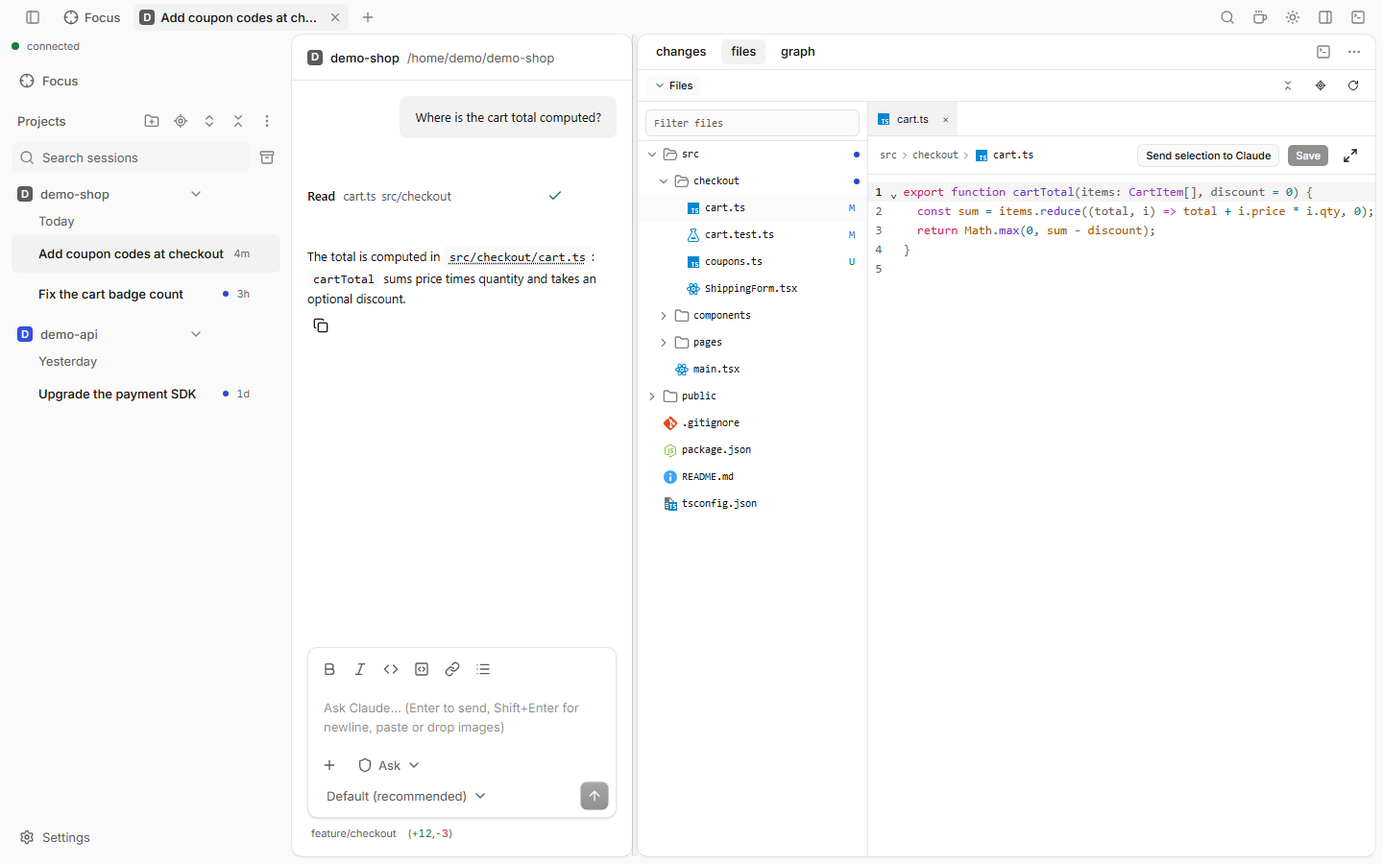
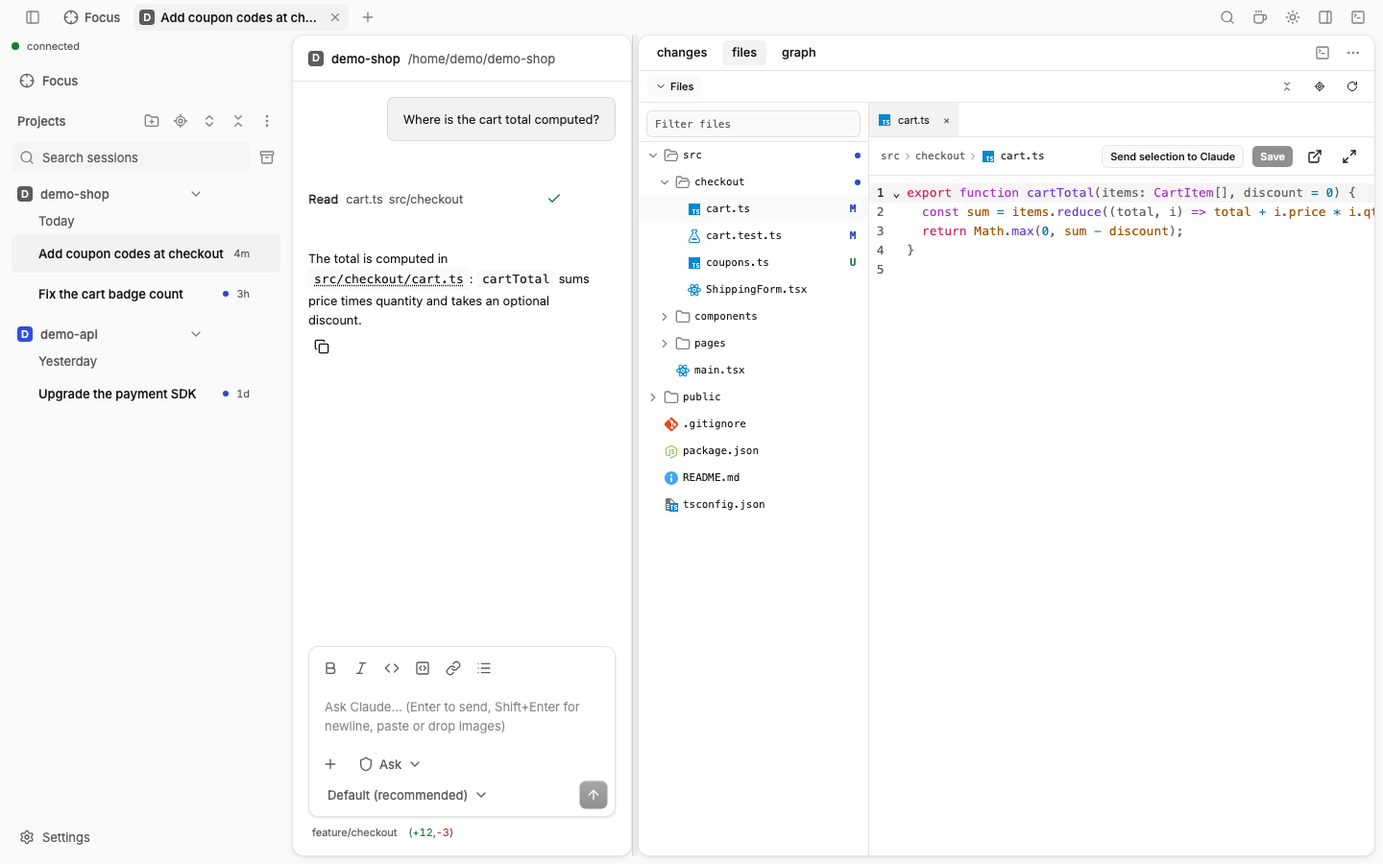
release: 1.0.0
Bump claude-code-ui to 1.0.0, changelog entry, docs check (new Aside and
Background shells pages, panes, nested repos, Focus, worktrees, retaken
terminal/files/focus shots), stale listWorktrees UNC test expects detached.

diff --git a/docs/site/.vitepress/config.ts b/docs/site/.vitepress/config.ts
@@ -107,6 +107,8 @@ export default defineConfig({
           { text: "Permissions & modes", link: "/features/permissions" },
           { text: "Reading a session", link: "/features/timeline" },
           { text: "Usage & context", link: "/features/usage" },
+          { text: "Ask an aside (/btw)", link: "/features/aside" },
+          { text: "Background shells", link: "/features/background-shells" },
         ],
       },
       {

diff --git a/packages/daemon/test/git.test.ts b/packages/daemon/test/git.test.ts
@@ -1801,7 +1801,7 @@ describe("WSL projects opened by their UNC path", () => {
     const list = await listWorktrees("\\\\wsl.localhost\\Ubuntu\\home\\me\\repo");
     expect(list).toEqual([
       { path: "\\\\wsl.localhost\\Ubuntu\\home\\me\\repo", branch: "main", main: true },
-      { path: "C:\\wt", branch: "abcdef1", main: false },
+      { path: "C:\\wt", branch: "abcdef1", main: false, detached: true },
     ]);
   });
 

diff --git a/CHANGELOG.md b/CHANGELOG.md
@@ -2,6 +2,48 @@
 
 All notable changes to `claude-code-ui` (npm). Versions follow [Semantic Versioning](https://semver.org/).
 
+## 1.0.0 - 2026-10-30
+
+### Added
+
+- Panes: Plan, Files, Git graph, the terminal, a single file, an artifact and a session can each show in the side panel, the bottom panel or as a tab in the main area. Drag a pane tab to move it between them. Split view shows a session beside one of its panes ([#395](https://github.com/cuonghuunguyen/claude-code-ui/issues/395), [#396](https://github.com/cuonghuunguyen/claude-code-ui/issues/396), [#397](https://github.com/cuonghuunguyen/claude-code-ui/issues/397), [#398](https://github.com/cuonghuunguyen/claude-code-ui/issues/398), [#399](https://github.com/cuonghuunguyen/claude-code-ui/issues/399), [#400](https://github.com/cuonghuunguyen/claude-code-ui/issues/400), [#401](https://github.com/cuonghuunguyen/claude-code-ui/issues/401), [#402](https://github.com/cuonghuunguyen/claude-code-ui/issues/402)).
+- Terminal in the main area: one tab per project folder; moving it keeps the running shell ([#397](https://github.com/cuonghuunguyen/claude-code-ui/issues/397)).
+- A session shown in the side or bottom panel has the full session features, its owner's pane tab and image attachments ([#401](https://github.com/cuonghuunguyen/claude-code-ui/issues/401), [#503](https://github.com/cuonghuunguyen/claude-code-ui/issues/503)).
+- Aside: `/btw` asks a side question in a floating popup, also while the turn runs. Keep it to turn it into a session ([#465](https://github.com/cuonghuunguyen/claude-code-ui/issues/465), [#466](https://github.com/cuonghuunguyen/claude-code-ui/issues/466), [#467](https://github.com/cuonghuunguyen/claude-code-ui/issues/467)).
+- Artifact browser: lists the artifacts a session published ([#176](https://github.com/cuonghuunguyen/claude-code-ui/issues/176)).
+- Settings › Appearance › Theme: Catppuccin, Tokyo Night, Solarized, Nord, Dracula and One Dark next to the default theme. Recolors the app, editor, diffs, terminal and git graph ([#468](https://github.com/cuonghuunguyen/claude-code-ui/issues/468)).
+- Nested repositories and submodules: found like VS Code (Settings › Git, same names as `git.*`). A repository selector picks which repository Changes and the Git graph show (remembered per project), with fetch, push and pull per repository. The file tree marks each file by its own repository; repository folders get Show changes and Show graph. Filter files and @-mentions find files inside nested repositories ([#388](https://github.com/cuonghuunguyen/claude-code-ui/issues/388), [#389](https://github.com/cuonghuunguyen/claude-code-ui/issues/389), [#390](https://github.com/cuonghuunguyen/claude-code-ui/issues/390), [#391](https://github.com/cuonghuunguyen/claude-code-ui/issues/391), [#392](https://github.com/cuonghuunguyen/claude-code-ui/issues/392), [#393](https://github.com/cuonghuunguyen/claude-code-ui/issues/393)).
+- Background shells: a running Bash command, also a `!` command, moves to the background with the card button or Ctrl+Shift+B (⌘⇧B on macOS). A Background shells list shows the session's shells with live output and Kill ([#440](https://github.com/cuonghuunguyen/claude-code-ui/issues/440), [#442](https://github.com/cuonghuunguyen/claude-code-ui/issues/442), [#485](https://github.com/cuonghuunguyen/claude-code-ui/issues/485)).
+- A `!` command sent while a turn runs is queued like a prompt instead of rejected ([#443](https://github.com/cuonghuunguyen/claude-code-ui/issues/443)).
+- A large paste shows as a collapsed Pasted text block in the prompt box and the sent message ([#441](https://github.com/cuonghuunguyen/claude-code-ui/issues/441)).
+- New worktrees get the gitignored files listed in `.worktreeinclude` ([#439](https://github.com/cuonghuunguyen/claude-code-ui/issues/439)).
+- Sidebar: Copy path on project and worktree rows ([#456](https://github.com/cuonghuunguyen/claude-code-ui/issues/456)).
+- Focus page: usage-limit row when auto-continue is off, worker rows nested under their coordinator, an optional Next for you chip (Settings › Focus, off by default) ([#305](https://github.com/cuonghuunguyen/claude-code-ui/issues/305), [#306](https://github.com/cuonghuunguyen/claude-code-ui/issues/306), [#307](https://github.com/cuonghuunguyen/claude-code-ui/issues/307)).
+- Orchestration: start a worker by project or worktree name. Workers hand off to the next stage by agent type. An optional total worker limit counts the whole daemon; the worker cap counts one coordinator's tree ([#454](https://github.com/cuonghuunguyen/claude-code-ui/issues/454), [#457](https://github.com/cuonghuunguyen/claude-code-ui/issues/457), [#484](https://github.com/cuonghuunguyen/claude-code-ui/issues/484)).
+
+### Changed
+
+- Files tab restores open editor tabs and unsaved drafts after a reload ([#366](https://github.com/cuonghuunguyen/claude-code-ui/issues/366)).
+- Clean up scans worktrees fast, shows the fetch, counts squash-merged worktrees as Safe. Remove worktree opens at once with Checking… and removes in the background with a Removing… row. Worktree status is cached ([#461](https://github.com/cuonghuunguyen/claude-code-ui/issues/461), [#462](https://github.com/cuonghuunguyen/claude-code-ui/issues/462), [#463](https://github.com/cuonghuunguyen/claude-code-ui/issues/463)).
+- WSL and Docker sides use the Node.js already in the container or distro when its version qualifies, else the pinned one, and come back with the hub without manual steps ([#458](https://github.com/cuonghuunguyen/claude-code-ui/issues/458), [#464](https://github.com/cuonghuunguyen/claude-code-ui/issues/464)).
+- Docker side bundle: concurrent downloads of a cold cache share one download, fallback reasons read correctly, leftover temp tars are cleaned, the cache is pruned ([#448](https://github.com/cuonghuunguyen/claude-code-ui/issues/448), [#449](https://github.com/cuonghuunguyen/claude-code-ui/issues/449), [#450](https://github.com/cuonghuunguyen/claude-code-ui/issues/450)).
+- The Focus tab keeps the side and bottom panels, so the prompt no longer jumps ([#367](https://github.com/cuonghuunguyen/claude-code-ui/issues/367)).
+- Phone: the tab name follows the finger on a swipe and settles in one transition ([#507](https://github.com/cuonghuunguyen/claude-code-ui/issues/507)).
+
+### Fixed
+
+- Jira token: bound to the host it was saved for, cleared on a host change, never sent over http, kept out of the log ([#451](https://github.com/cuonghuunguyen/claude-code-ui/issues/451), [#487](https://github.com/cuonghuunguyen/claude-code-ui/issues/487)).
+- Create worktree: long ticket summaries and branch folders over 64 characters, `fix-123` read as a ticket key, a stale branch list replacing the fetched one, deletion of your own `worktree-*` branch ([#452](https://github.com/cuonghuunguyen/claude-code-ui/issues/452), [#453](https://github.com/cuonghuunguyen/claude-code-ui/issues/453), [#460](https://github.com/cuonghuunguyen/claude-code-ui/issues/460), [#486](https://github.com/cuonghuunguyen/claude-code-ui/issues/486)).
+- Background shell output shows after `/clear` ([#496](https://github.com/cuonghuunguyen/claude-code-ui/issues/496)); subagent Bash cards keep Run in background ([#492](https://github.com/cuonghuunguyen/claude-code-ui/issues/492)).
+- Asides of a daemon on another port are cleaned up ([#495](https://github.com/cuonghuunguyen/claude-code-ui/issues/495)).
+- Focus page: error rows survive a reload and unread finished rows a daemon restart; it opens under a maximized bottom panel; the detail pane no longer repeats the command above the Permission card; the Next for you chip fills a mounted prompt box ([#308](https://github.com/cuonghuunguyen/claude-code-ui/issues/308), [#455](https://github.com/cuonghuunguyen/claude-code-ui/issues/455), [#499](https://github.com/cuonghuunguyen/claude-code-ui/issues/499), [#505](https://github.com/cuonghuunguyen/claude-code-ui/issues/505)).
+- Terminal: the selected terminal is restored per folder after a reload; tabs polish on narrow screens ([#490](https://github.com/cuonghuunguyen/claude-code-ui/issues/490), [#491](https://github.com/cuonghuunguyen/claude-code-ui/issues/491)).
+- Split view: focus after a split, a 0-size terminal, a stale drag ([#501](https://github.com/cuonghuunguyen/claude-code-ui/issues/501)). Open in tab from the file dialog keeps the editor focus ([#504](https://github.com/cuonghuunguyen/claude-code-ui/issues/504)).
+- Nested repository search stays fast on WSL, keeps empty nested repository folders, shares the cap and the repository scan ([#502](https://github.com/cuonghuunguyen/claude-code-ui/issues/502)).
+- Settings: a second fast edit is kept; Enter in a field on a phone no longer leaves the group ([#498](https://github.com/cuonghuunguyen/claude-code-ui/issues/498), [#500](https://github.com/cuonghuunguyen/claude-code-ui/issues/500)).
+- Markdown file preview shows tables at full height ([#444](https://github.com/cuonghuunguyen/claude-code-ui/issues/444)).
+- Worker view "also remove worktree" re-checks the worktree before removal ([#493](https://github.com/cuonghuunguyen/claude-code-ui/issues/493)).
+
 ## 0.8.0 - 2026-10-25
 
 ### Added

diff --git a/docs/site/features/panes.md b/docs/site/features/panes.md
@@ -1,6 +1,6 @@
 # Panes & layout
 
-Changes, Files, Git graph and Terminal are **panes**. Each one is a tab of the side panel or of the bottom panel, and you choose where it lives.
+Changes, Files, Git graph, Terminal, Plan and Artifacts are **panes**. Each one is a tab of the side panel, of the bottom panel or (except Changes) of the main area, and you choose where it lives.
 
 ![The workspace with the terminal docked at the bottom](/screenshots/panes.png)
 
@@ -12,16 +12,40 @@ Changes, Files, Git graph and Terminal are **panes**. Each one is a tab of the s
 4. To dock the side panel on the other side, use **Move side panel to left** (or **right**) in its **⋯** menu.
 5. To undo all of it, pick **Reset layout** in a pane tab's menu, a panel's **⋯** menu or the [command palette](palette).
 
+## The main area
+
+Plan, Files, Git graph and Terminal can also be tabs next to your sessions. Right-click the pane tab and pick **Move to main area**, or drag the tab onto the tab strip or the session area. The pane then opens as a tab in the project's group of the tab strip ("Plan · *session*", "Terminal · *project*"), and keeps showing that project or session while you work in another one. **Move to side panel** or **Move to bottom panel** brings it back, and the tab closes (a toast offers **Undo**). The tab's own menu has the same items. Git graph always takes the whole area.
+
+Drag a pane tab onto the side panel or the bottom panel to move it there.
+
+## The panes
+
+| Pane | Shows |
+| --- | --- |
+| [Changes](changes), [Files](files), [Git graph](git-graph), [Terminal](terminal) | See their pages. |
+| **Plan** | The newest plan of the session, with the same text as the plan card. It is listed only while the session has a plan. While a plan waits for your answer it says so, with **Go to request**. **Open in tab** on a plan card or on the plan approval shows the pane wherever it lives. |
+| **Artifacts** | The artifacts the session published (Claude's Artifact tool). Pick one to preview it, or click **Open in tab**. Listed only while the session has published one. |
+
+## One file or one artifact as a tab
+
+- **Open in tab** on a file (a tree row, a Files editor tab, the file dialog, or <kbd>Alt</kbd>+<kbd>Enter</kbd> in **Open file**) moves that file into its own tab next to its session. It is the same editor. **Move to Files** puts it back. A file is open in one place only.
+- **Open in tab** on a published Artifact card shows the page in its own tab at full height. **Move to Artifacts** puts it back. The preview in the card stays.
+- Put either one beside the session with **Split right** or **Split down** (see [Split view](split-view)).
+
+## A session in the side or bottom panel
+
+Right-click a session tab and pick **Move to side panel** or **Move to bottom panel** (wide screens). That session, with its timeline, prompt box and requests, stays there while you work in other sessions, for example to watch a worker. It has the same features as a tab: file links, **Quote**, **Open in tab**, image attachments. **Move to main area** in the dock tab's menu brings it back. Opening it from the sidebar, [Focus](focus) or a notification selects its dock tab. It is a normal tab again on a window narrower than 1024px.
+
 ## The terminal
 
 The [terminal](terminal) is in the bottom panel by default, under the session and the side panel. The bottom panel resizes (drag the handle above it), maximizes (**Maximize panel** / **Restore panel**) and hides (**Hide bottom panel**). Press <kbd>Ctrl</kbd>+<kbd>`</kbd> or use the terminal button in the titlebar to show or hide it.
 
-To keep the terminal in the side panel, set **Terminal position** to **Side panel** in [Settings › Layout › Terminal](../reference/settings#terminal), or move its tab.
+To keep the terminal in the side panel or the main area, set **Terminal position** in [Settings › Layout › Terminal](../reference/settings#terminal), or move its tab.
 
 ## Good to know
 
-- A moved pane keeps its state: open files, running terminals, the loaded graph. Its tab keeps the keyboard focus.
-- A panel with no pane is hidden. Git graph only shows in a git folder.
+- A moved pane keeps its state: open files, running terminals, the loaded graph. Its tab keeps the keyboard focus. The terminal never takes the keyboard until you click into it.
+- A panel with no pane is hidden. Git graph, Plan and Artifacts only show when there is something to show. Git graph needs a git folder.
 - The layout is kept per browser. The side panel and the bottom panel reopen on the tab you selected last, also after a reload.
 - **Reset layout** restores the default layout and forgets the remembered tabs. It does not change sizes.
 - On a phone there is no docking: the pane switcher opens on the pane you used last.

diff --git a/docs/site/features/files.md b/docs/site/features/files.md
@@ -1,6 +1,6 @@
 # Files
 
-The **Files** pane in the side panel: a file tree and a simple editor for the session's folder.
+The **Files** pane: a file tree and a simple editor for the session's folder. It lives in the side panel by default; it can also be a tab in the main area (see [Panes & layout](panes)).
 
 ![The file tree with cart.ts open in the editor](/screenshots/files.png)
 
@@ -13,10 +13,13 @@ The **Files** pane in the side panel: a file tree and a simple editor for the se
 
 ## File view
 
-- The tree shows a file-type icon and a git status mark (modified, added, untracked…) for each file.
+- The tree shows a file-type icon and a git status mark (modified, added, untracked…) for each file. A file inside a nested repository or a submodule gets the mark of its own repository. A repository folder shows a repository icon and a submodule an archive icon; neither gets a single `U` from the parent. Right-click one for **Show changes** or **Show graph**: they switch the [repository selector](changes#repositories) of Changes and Git graph.
+- Open tabs and unsaved edits come back after a page reload.
 - A single click opens a **preview tab** (its title is in italics); the next single click replaces it. Double click the tab or the tree row, or edit the file, to keep it open.
 - A breadcrumb path and an unsaved marker (●) sit above the editor. Markdown files can show a rendered preview.
+- Markdown preview shows tables at full height; the preview scrolls.
 - Binary and very large files show a clear message instead of opening.
+- **Filter files** and `@` in the prompt box also find files inside nested repositories and submodules.
 - With no file open, the tree fills the tab. From 672px of panel width the tree sits beside the editor; below that it is a drawer (the **Files** button or <kbd>Ctrl</kbd>+<kbd>\\</kbd>).
 
 ## File dialog
@@ -35,6 +38,7 @@ Right-click (long press, or <kbd>Shift</kbd>+<kbd>F10</kbd>) a file or folder:
 | **Rename** (<kbd>F2</kbd>), **Duplicate** | Renames or copies the file. |
 | **Delete** (<kbd>Delete</kbd>) | Deletes it after you confirm. |
 | **Copy path**, **Copy relative path** | Copies the path. |
+| **Open in tab** | Moves the file into its own tab next to its session (also middle click on the row). See [Panes & layout](panes#one-file-or-one-artifact-as-a-tab). |
 | **Add to prompt** | Inserts the file into the prompt box as an @mention. |
 
 ## Keys

diff --git a/docs/site/features/prompt-box.md b/docs/site/features/prompt-box.md
@@ -21,7 +21,10 @@ In **Settings > General > Sending** you can swap the two: <kbd>Enter</kbd> queue
 1. Type `!` as the first character. The box turns into a shell prompt.
 2. Type a command, for example `! npm test`, and press <kbd>Enter</kbd>.
 3. It runs in the session's folder. The output shows in the timeline, and Claude sees it in the next turn.
-4. **Stop** kills a command that hangs. <kbd>Esc</kbd> (or <kbd>Backspace</kbd> in an empty box) leaves bash mode.
+4. **Stop** kills a command that hangs. To keep a long command running while you go on, click **Run in background** (<kbd>Ctrl</kbd>+<kbd>Shift</kbd>+<kbd>B</kbd>, see [Background shells](background-shells)).
+5. <kbd>Esc</kbd> (or <kbd>Backspace</kbd> in an empty box) leaves bash mode.
+
+While Claude works, a `!` command waits in the queue like a message and runs when the session is idle.
 
 `!` also works in a new session's box: it starts the session and runs the command.
 
@@ -31,12 +34,15 @@ In **Settings > General > Sending** you can swap the two: <kbd>Enter</kbd> queue
 - A `/command` works in the middle of a message too, like in Claude Code.
 - Some open a dialog instead of being sent: `/mcp`, `/skills` (or `/help`), `/plugins`, `/resume`. See [MCP, skills & plugins](config-dialogs).
 - `/clear` starts a fresh session in the same tab.
+- `/btw <question>` asks an [aside](aside) in a floating popup, also while Claude works.
+- `/tasks` (or `/bashes`) opens the [Background shells](background-shells) list.
 
 ## Files and images
 
 - Type `@` and part of a file name to mention a file.
 - Paste or drop images into the box, or click **+** (**Add images and files**). PNG, JPEG, GIF and WebP go to Claude as images.
 - Other files are uploaded and added to the prompt as a path.
+- A large text paste (more than 800 characters or more than 2 line breaks) shows as a block `[Pasted text #1 +120 lines]` in the box and in the sent message. Click the block to read the text. Delete it like one character (<kbd>Backspace</kbd>). Claude gets the whole text. Several pastes get numbers #1, #2…
 
 ## Pickers under the box
 

diff --git a/docs/site/features/aside.md b/docs/site/features/aside.md
@@ -1,0 +1,21 @@
+# Ask an aside
+
+Ask a side question about a session without touching it. An **aside** is a copy of the session that knows everything up to now. It answers in a floating popup while the session stays usable behind it.
+
+## How to use
+
+1. In a session, type `/btw` and your question in the prompt box, then press <kbd>Enter</kbd>. Or run **Ask aside** in the [command palette](palette). While a permission or question panel replaces the prompt box, **Ask aside** shows a one-line input.
+2. The popup opens at once and starts to answer. It has its own timeline, a prompt box for follow-ups, and its own permission and question panels.
+3. Drag the popup by its header, resize it by its corner, or click **Minimize aside** to fold it into a chip at the bottom right.
+4. **Close aside** deletes the aside.
+5. **Keep as session** turns it into a normal session: it gets a title in the sidebar and opens as a tab, and the popup closes.
+
+## Good to know
+
+- It works while Claude runs a turn. The turn goes on undisturbed. The aside sees the session up to the last complete reply, not what Claude is writing now. A session with no reply yet cannot be asked.
+- An aside is read-only: Edit, Write and NotebookEdit are off, and it starts no workers. Other tools run in the default [mode](permissions), so Bash and others ask. Changing its permission mode lifts the read-only limit.
+- Its requests show in its popup only, never in the session's panels. [Focus](focus) lists them as "Aside: *title*"; **Open** brings the popup forward.
+- Several popups can be open. A popup shows only while its session's tab shows. Open popups are not restored after a page reload.
+- On a phone the popup fills the screen.
+- `/btw` and `/clear` do not work inside an aside. Images in the question are not sent.
+- An aside that is not kept is not listed and is deleted when it is not needed any more, also after a browser close or a restart, so it does not show in `claude --resume`.

diff --git a/docs/site/features/split-view.md b/docs/site/features/split-view.md
@@ -1,6 +1,6 @@
 # Split view
 
-Show two sessions next to each other, or one above the other, each with its own timeline, prompt box and scroll position. It needs a window at least 1024px wide.
+Show two sessions next to each other, or one above the other, each with its own timeline, prompt box and scroll position. A session can also sit beside one of its [panes](panes): its plan, its project's terminal, a file or an artifact. It needs a window at least 1024px wide.
 
 ![Two sessions side by side](/screenshots/split-view.png)
 
@@ -12,7 +12,7 @@ Show two sessions next to each other, or one above the other, each with its own 
 4. Drag the bar between the splits to resize them, or focus it and press the arrow keys. Double click it to go back to 50/50.
 5. To end the split, run **Join splits** in the [command palette](palette). The active session stays.
 
-You can also drag a tab onto the session area and drop it at an edge to split there.
+You can also drag a tab onto the session area and drop it at an edge to split there. **Split right**, **Split down** and the drag work on Plan, Files, Terminal, file and artifact tabs too. A split always holds at least one session. Git graph always takes the whole area, and Changes stays in its panel.
 
 ## Good to know
 
@@ -21,4 +21,5 @@ You can also drag a tab onto the session area and drop it at an edge to split th
 - Both sessions on screen count as seen, so neither shows a notification card.
 - The tab of the other split has a split icon. Closing it ends the split.
 - When the window is too narrow for two splits, one shows at a time with a **Close split** button. The split comes back when there is room.
+- After a split, the typing focus is in the new split: type at once, also in a terminal.
 - The split is kept per browser and restored on reload while both tabs are open.

diff --git a/docs/site/features/terminal.md b/docs/site/features/terminal.md
@@ -1,6 +1,6 @@
 # Terminal
 
-A real terminal in the session's folder, docked at the bottom of the window by default. It runs on the daemon's computer.
+A real terminal in the session's folder, docked at the bottom of the window by default. It can also sit in the side panel or as a tab in the main area. It runs on the daemon's computer.
 
 ![Two terminals in the bottom panel, the second one showing test output](/screenshots/terminal.png)
 
@@ -22,7 +22,8 @@ For Git Bash on Windows, set `SHELL` to `C:\Program Files\Git\bin\bash.exe` befo
 
 ## Good to know
 
-- The terminal is a [pane](panes): it sits in the bottom panel, under the session and the side panel. The bottom panel resizes and maximizes. **Terminal position** in [Settings › Layout › Terminal](../reference/settings#terminal), or a move of its tab, puts it in the side panel.
+- The terminal is a [pane](panes): it sits in the bottom panel, under the session and the side panel. The bottom panel resizes and maximizes. **Terminal position** in [Settings › Layout › Terminal](../reference/settings#terminal), or a move of its tab, puts it in the side panel or the main area.
+- In the main area the terminals of a project are one tab ("Terminal · *project*") that stays while you work in another project. After a reload each folder shows the terminal you selected in it.
 
 - Terminals live in the daemon. They survive a page reload or a lost connection, and the last output is replayed.
 - A shell starts only when you open the terminal (Toggle terminal, New terminal, or a click on its tab), never on a reload, a session or project switch, or a reconnect. A terminal you left open shows again only while its folder has running shells, and then it does not take the focus.

diff --git a/docs/site/features/focus.md b/docs/site/features/focus.md
@@ -21,9 +21,14 @@ One page that shows, per session, what needs you, what is working and what finis
 - Each list shows 5 rows and **+N more**.
 - Error and finished rows go away when you open the session. Finished rows also go after 24 hours.
 - The number on the tab and the title counts only sessions that wait for you (escalated, permission, question).
-- The usage-limit row shows only while auto-continue is on.
+- The usage-limit row shows also while auto-continue is off. Then it has no **Cancel continue**.
+- A [worker](orchestration) row is nested under its coordinator.
+- Error rows and unread finished rows are still there after a page reload or a daemon restart.
+- The detail of a request shows the tool and its command once, in the request card.
 - Answered requests shrink to one line until you leave the page.
 - Each request gets a **tier**. **Low** is a plain read (or, in some repos, an edit) inside the session's folder. Everything else is **high**. A high one shows **High tier · always asks** and has no **Allow always** here. Only you can answer it (see [Orchestration](orchestration)).
 - **Escalated by coordinator** marks a worker's request that its coordinator handed to you.
 - You can also open it with the link `#focus`.
+- Focus opens also while the bottom panel is maximized. The side and bottom panels stay while Focus shows, so the prompt box does not jump when you switch between Focus and a session.
+- With **Next for you** on (see [Settings › Focus](../reference/settings#focus)), a finished row has a chip with the predicted next prompt. Click it to put the text in that session's prompt box.
 - While Focus is open, [in-app notifications](notifications) for requests are hidden: you already see them here.

diff --git a/docs/site/features/git-graph.md b/docs/site/features/git-graph.md
@@ -1,19 +1,22 @@
 # Git graph
 
-The **Graph** pane shows the project's commit history as a graph, like `git log --graph`. It is read-only.
+The **Graph** pane shows the project's commit history as a graph, like `git log --graph`. It is read-only, except **Fetch**. It lives in the side panel by default and can be a tab in the main area, where it takes the whole area (see [Panes & layout](panes)).
 
 ![The git graph with branches, tags and commits](/screenshots/git-graph.png)
 
 ## How to use
 
 1. Open the side panel and pick **graph** (or press <kbd>Ctrl</kbd>+<kbd>Shift</kbd>+<kbd>H</kbd>).
-2. Pick which branch to show: **HEAD** (the default) or **All branches**, or one branch.
-3. Search with **Text or hash**, or filter by **Author**.
-4. Click a commit to see its details and the diff of each file.
+2. In a folder with several repositories, pick the repository first (see [Changes](changes#repositories)). The choice is shared with Changes.
+3. Pick which branch to show: **HEAD** (the default) or **All branches**, or one branch.
+4. Search with **Text or hash**, or filter by **Author**.
+5. Click a commit to see its details and the diff of each file.
 
 ## Good to know
 
 - Labels are colored by kind: HEAD, local branches, remote branches and tags.
 - It loads 200 commits at a time. Older ones load as you scroll down.
 - **Refresh** reloads the graph.
-- It never changes your repository: no checkout, no commit, no push.
+- **Fetch** and the branch menu act on the selected repository. Fetching a submodule fetches only its own remotes.
+- A commit that moved a submodule shows "Submodule *path* → *commit*" instead of a diff, with **Show graph of** *path*.
+- It never checks out, commits or pushes.

diff --git a/docs/site/features/projects.md b/docs/site/features/projects.md
@@ -29,11 +29,17 @@ A **worktree** is an extra git checkout of the same repository, on its own branc
 3. For a new branch, **Base** picks the start point (default: the remote default branch, e.g. `origin/main`).
 4. The modal shows the branch and its folder (`.claude/worktrees/<branch with / replaced by ->`). Click **Create**. A new session tab opens in the worktree.
 
+A new worktree also gets the gitignored files that the `.worktreeinclude` file at the root of the main checkout lists (`.gitignore` syntax), for example `.env`. A file is copied only when a pattern matches it and git ignores it. Large files and large totals are skipped with a warning in the daemon log.
+
+A long ticket summary is shortened, so a generated name is always valid. An error shows only for a name you typed or edited. A folder name is at most 64 characters, also when you check out an existing branch with the **Branch** tab.
+
 **Shift+click** the button, or pick **New worktree** in the project menu, to create one at once with a generated name.
 
 The **Run session in** chip of a new session calls the main checkout **Primary worktree**.
 
-To remove many at once, see [Clean up](clean-up). To remove one, click its trash icon (on a phone: its menu › **Delete worktree…**).
+To remove many at once, see [Clean up](clean-up). To remove one, click its trash icon (on a phone: its menu › **Delete worktree…**). The dialog opens at once with **Checking…**. After you confirm, the row shows **Removing…** while the removal runs in the background.
+
+The menu of a project row and of a worktree row has **Copy path**.
 
 ## Projects header buttons
 
